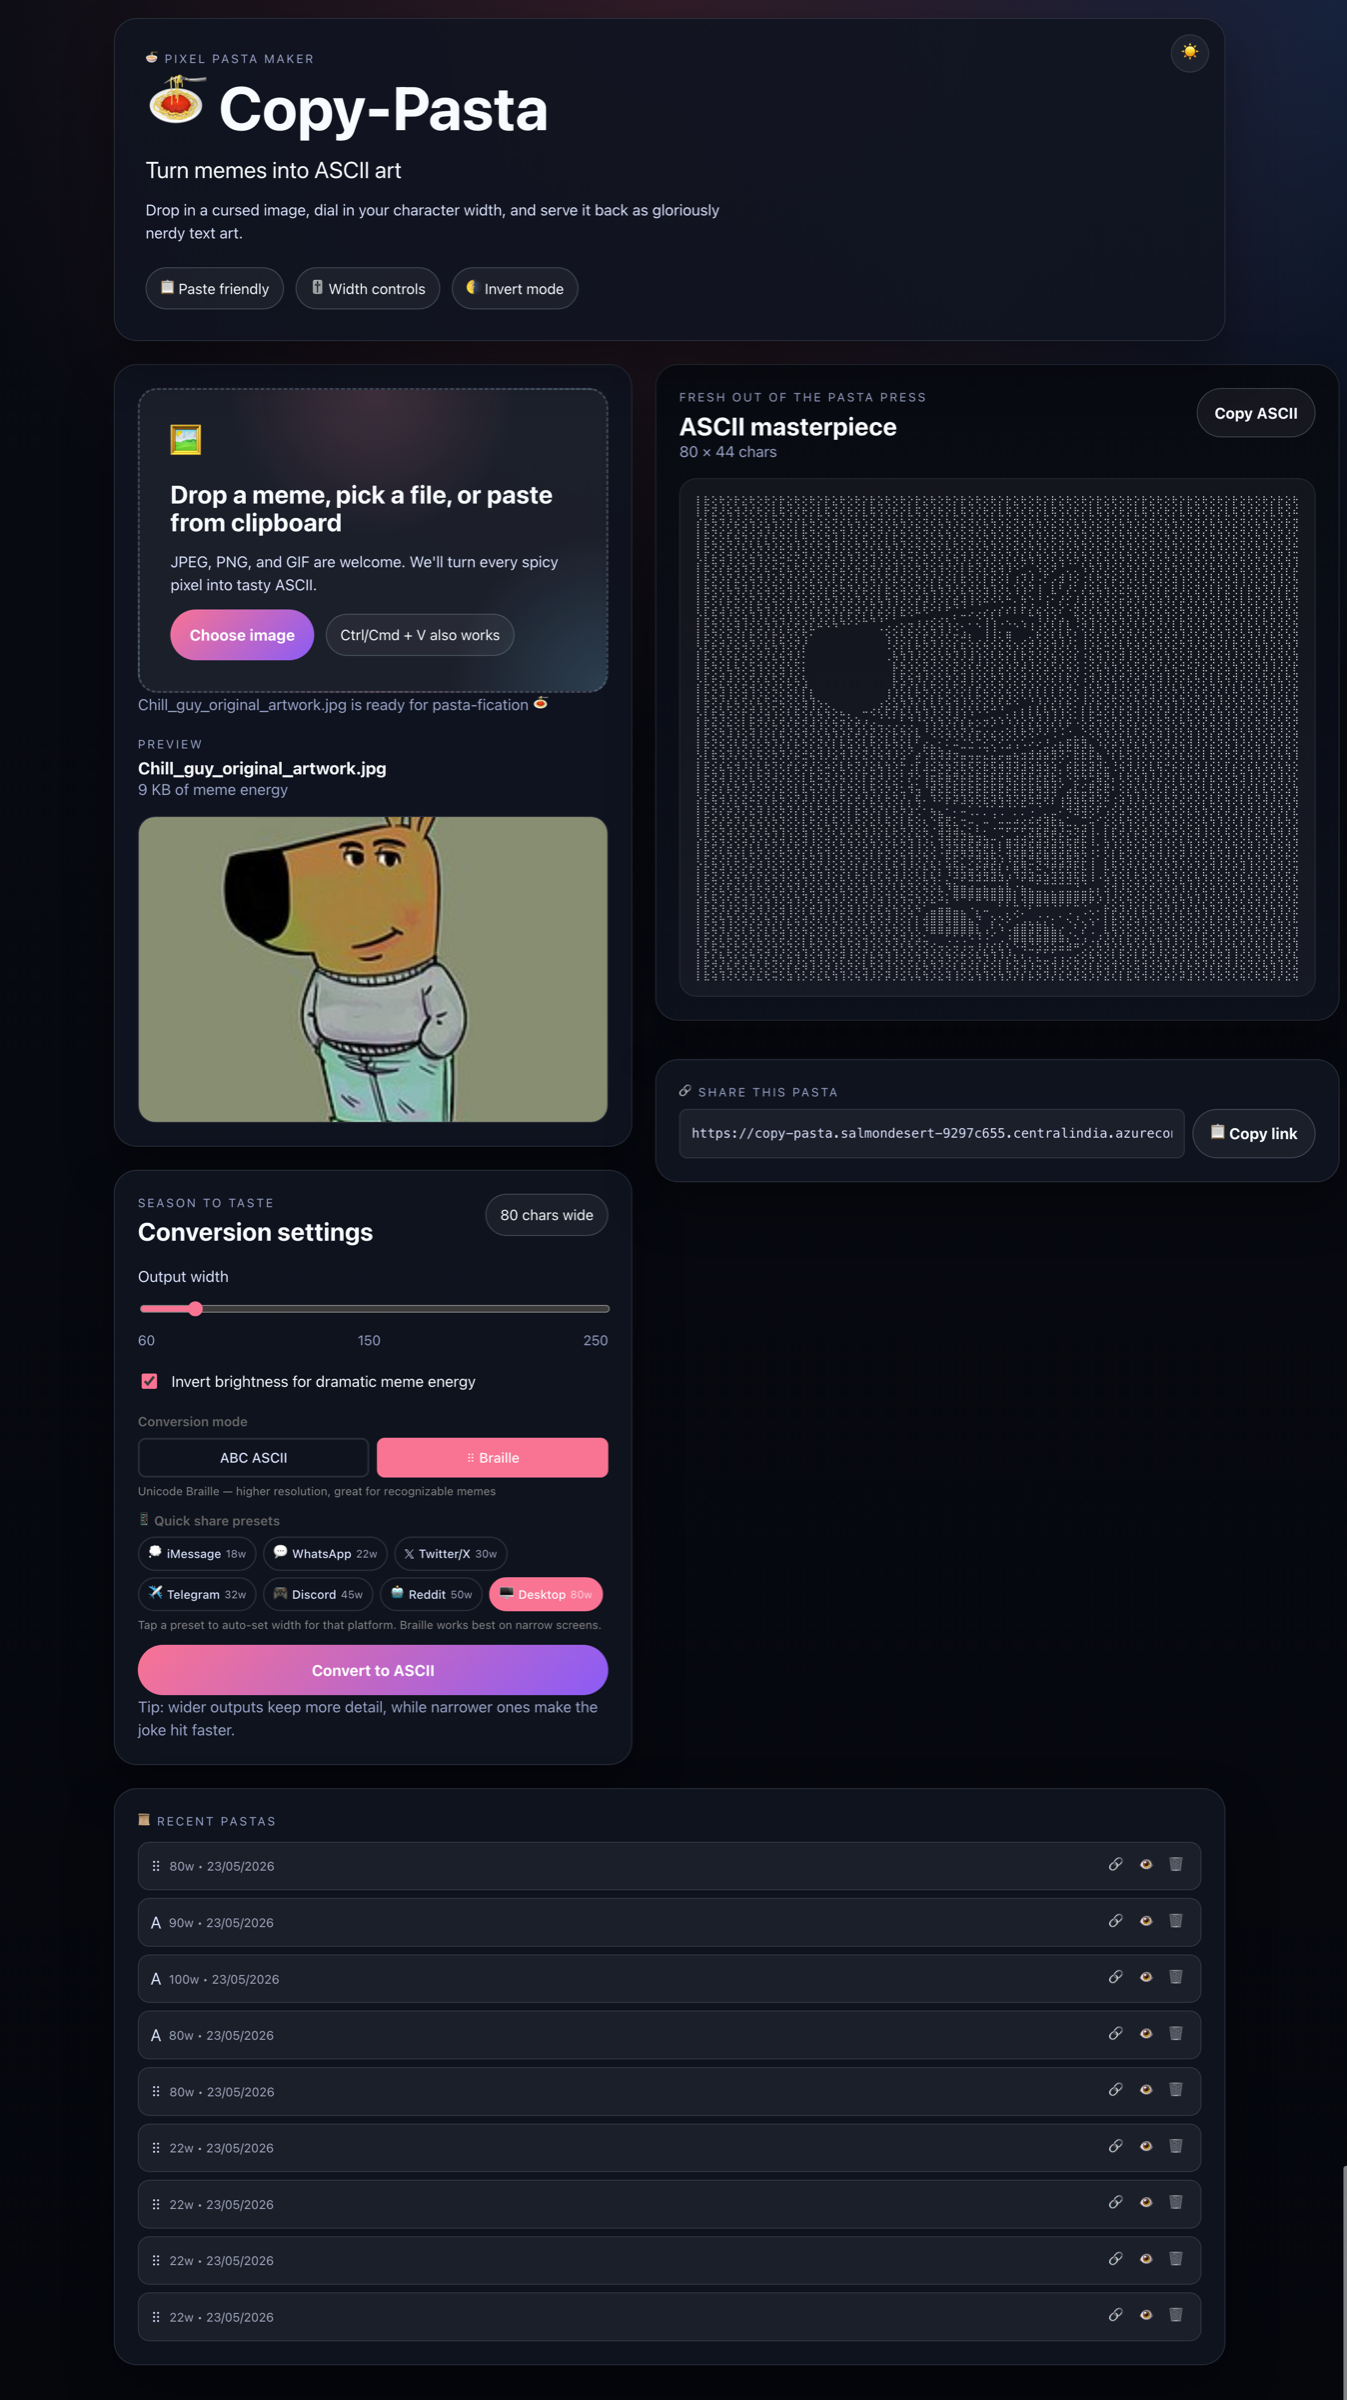
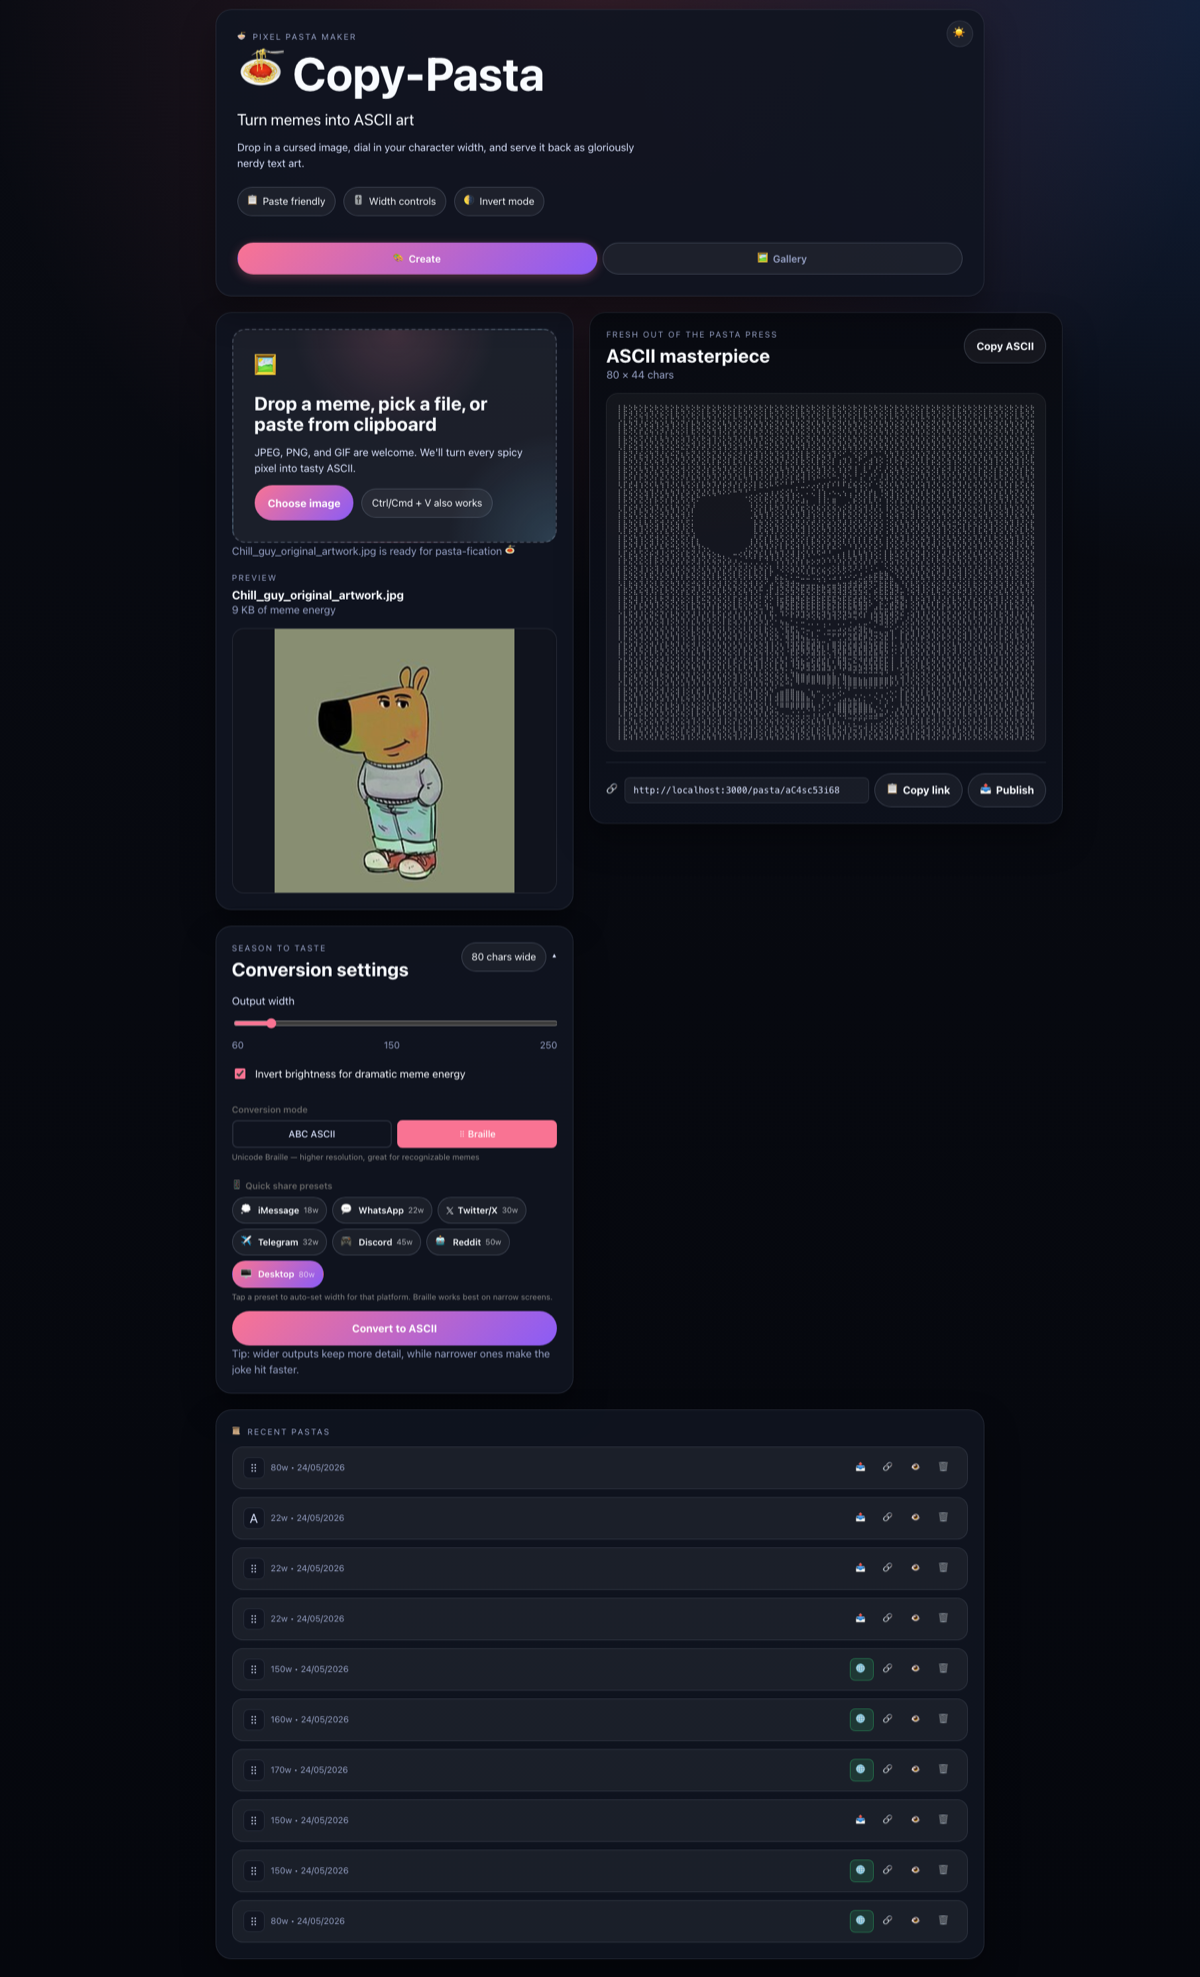
docs: update README screenshots with latest UI (#41)
- Replace app-in-action.png with current UI showing conversion flow
- Add gallery.png showcasing community creations view
- Both images resized to 1200px width for reasonable file sizes

diff --git a/README.md b/README.md
@@ -11,6 +11,9 @@ A fun web app that converts meme images into ASCII art that you can copy-paste a
 ### App in Action
 ![Copy-Pasta App](docs/screenshots/app-in-action.png)
 
+### Community Gallery
+![Community Gallery](docs/screenshots/gallery.png)
+
 ### Grafana Observability Dashboard
 ![Grafana Dashboard - Request Rate & Latency](docs/screenshots/grafana-dashboard.png)
 ![Grafana Dashboard - Conversions & DB Ops](docs/screenshots/grafana-dashboard-2.png)
